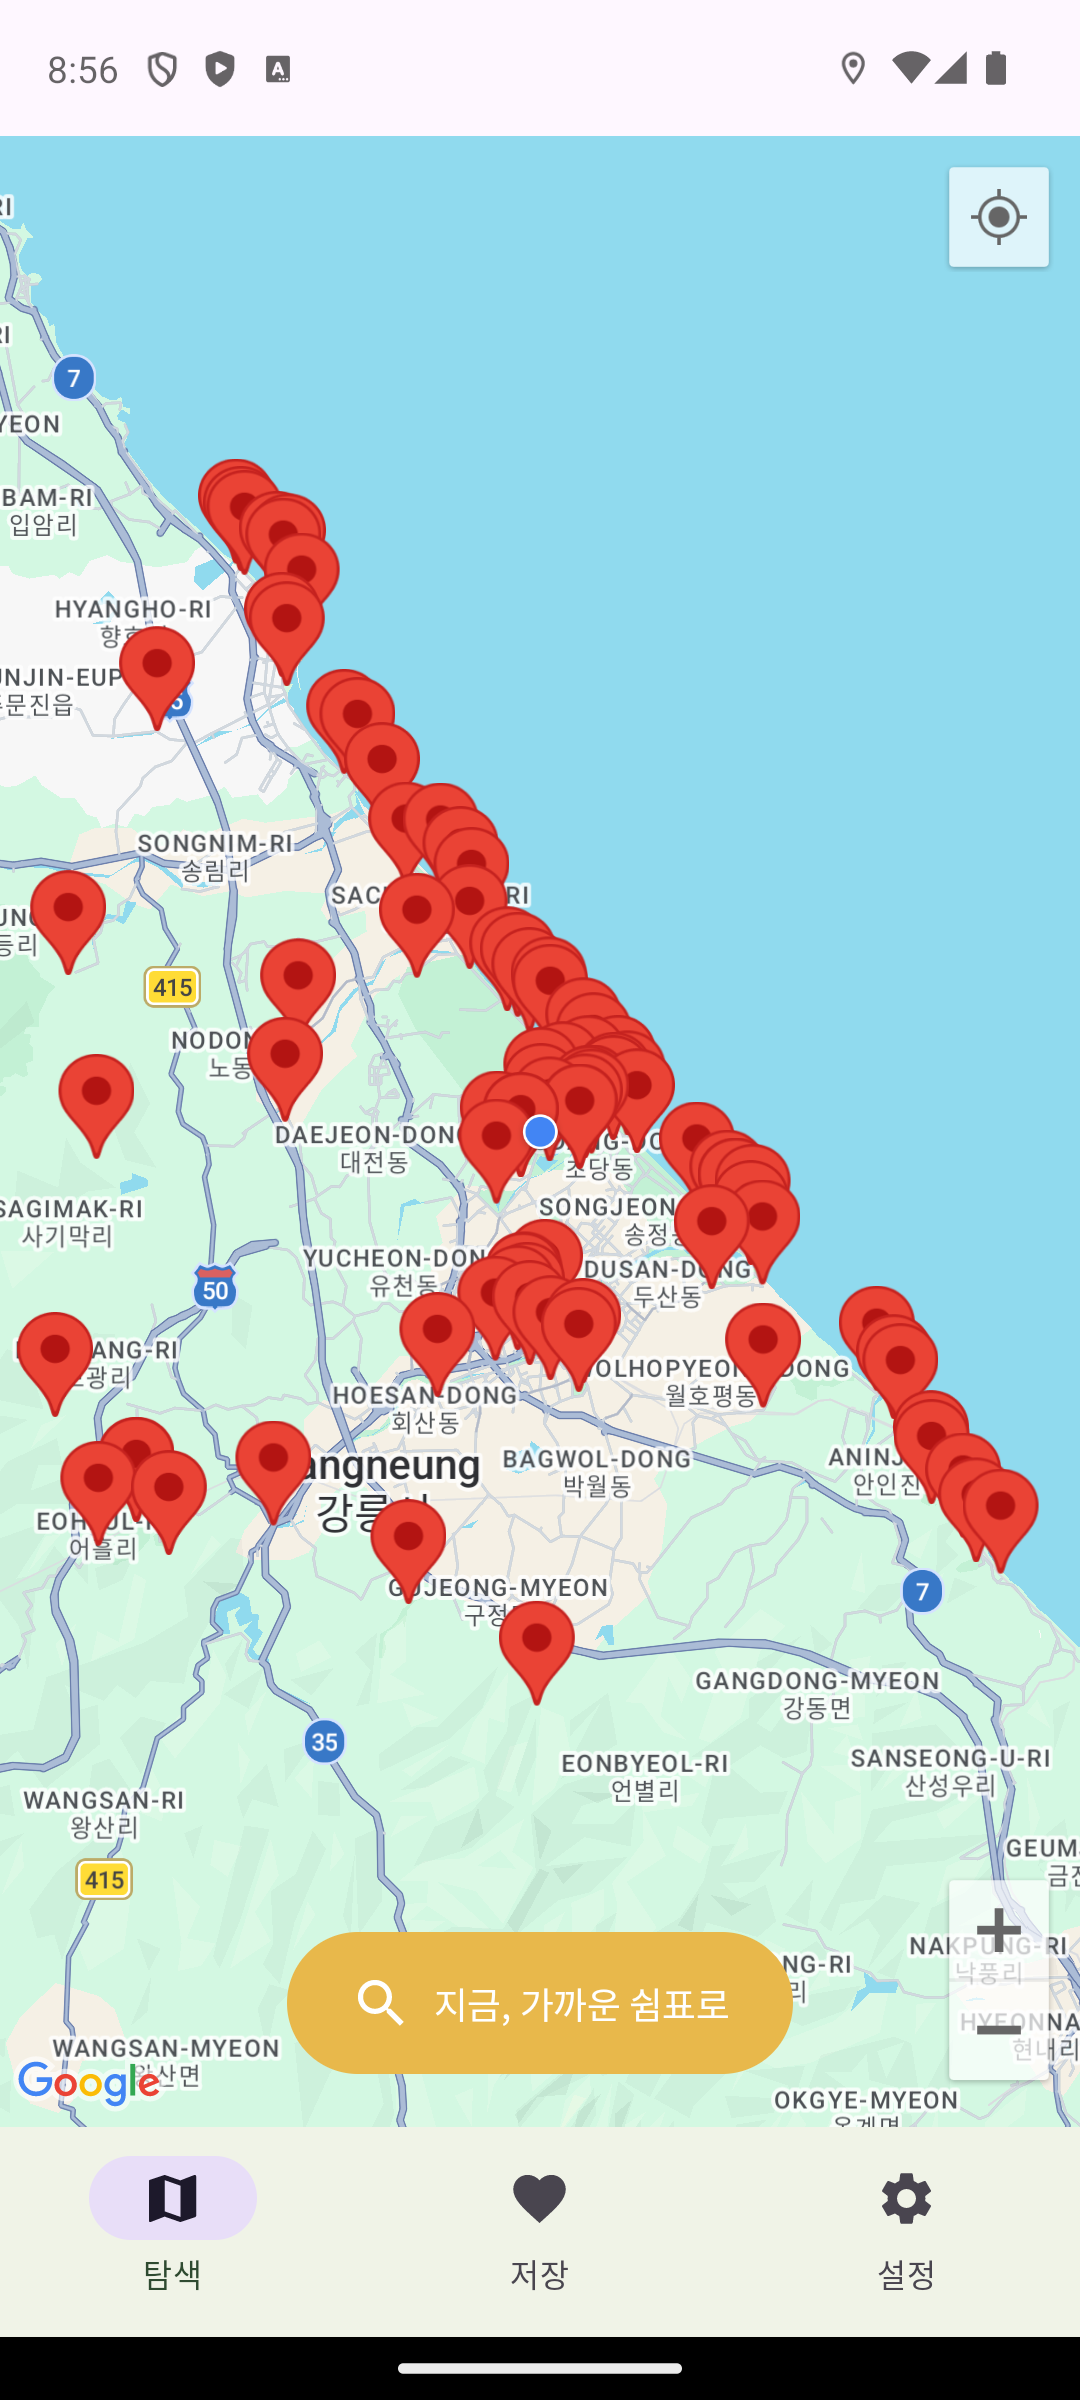
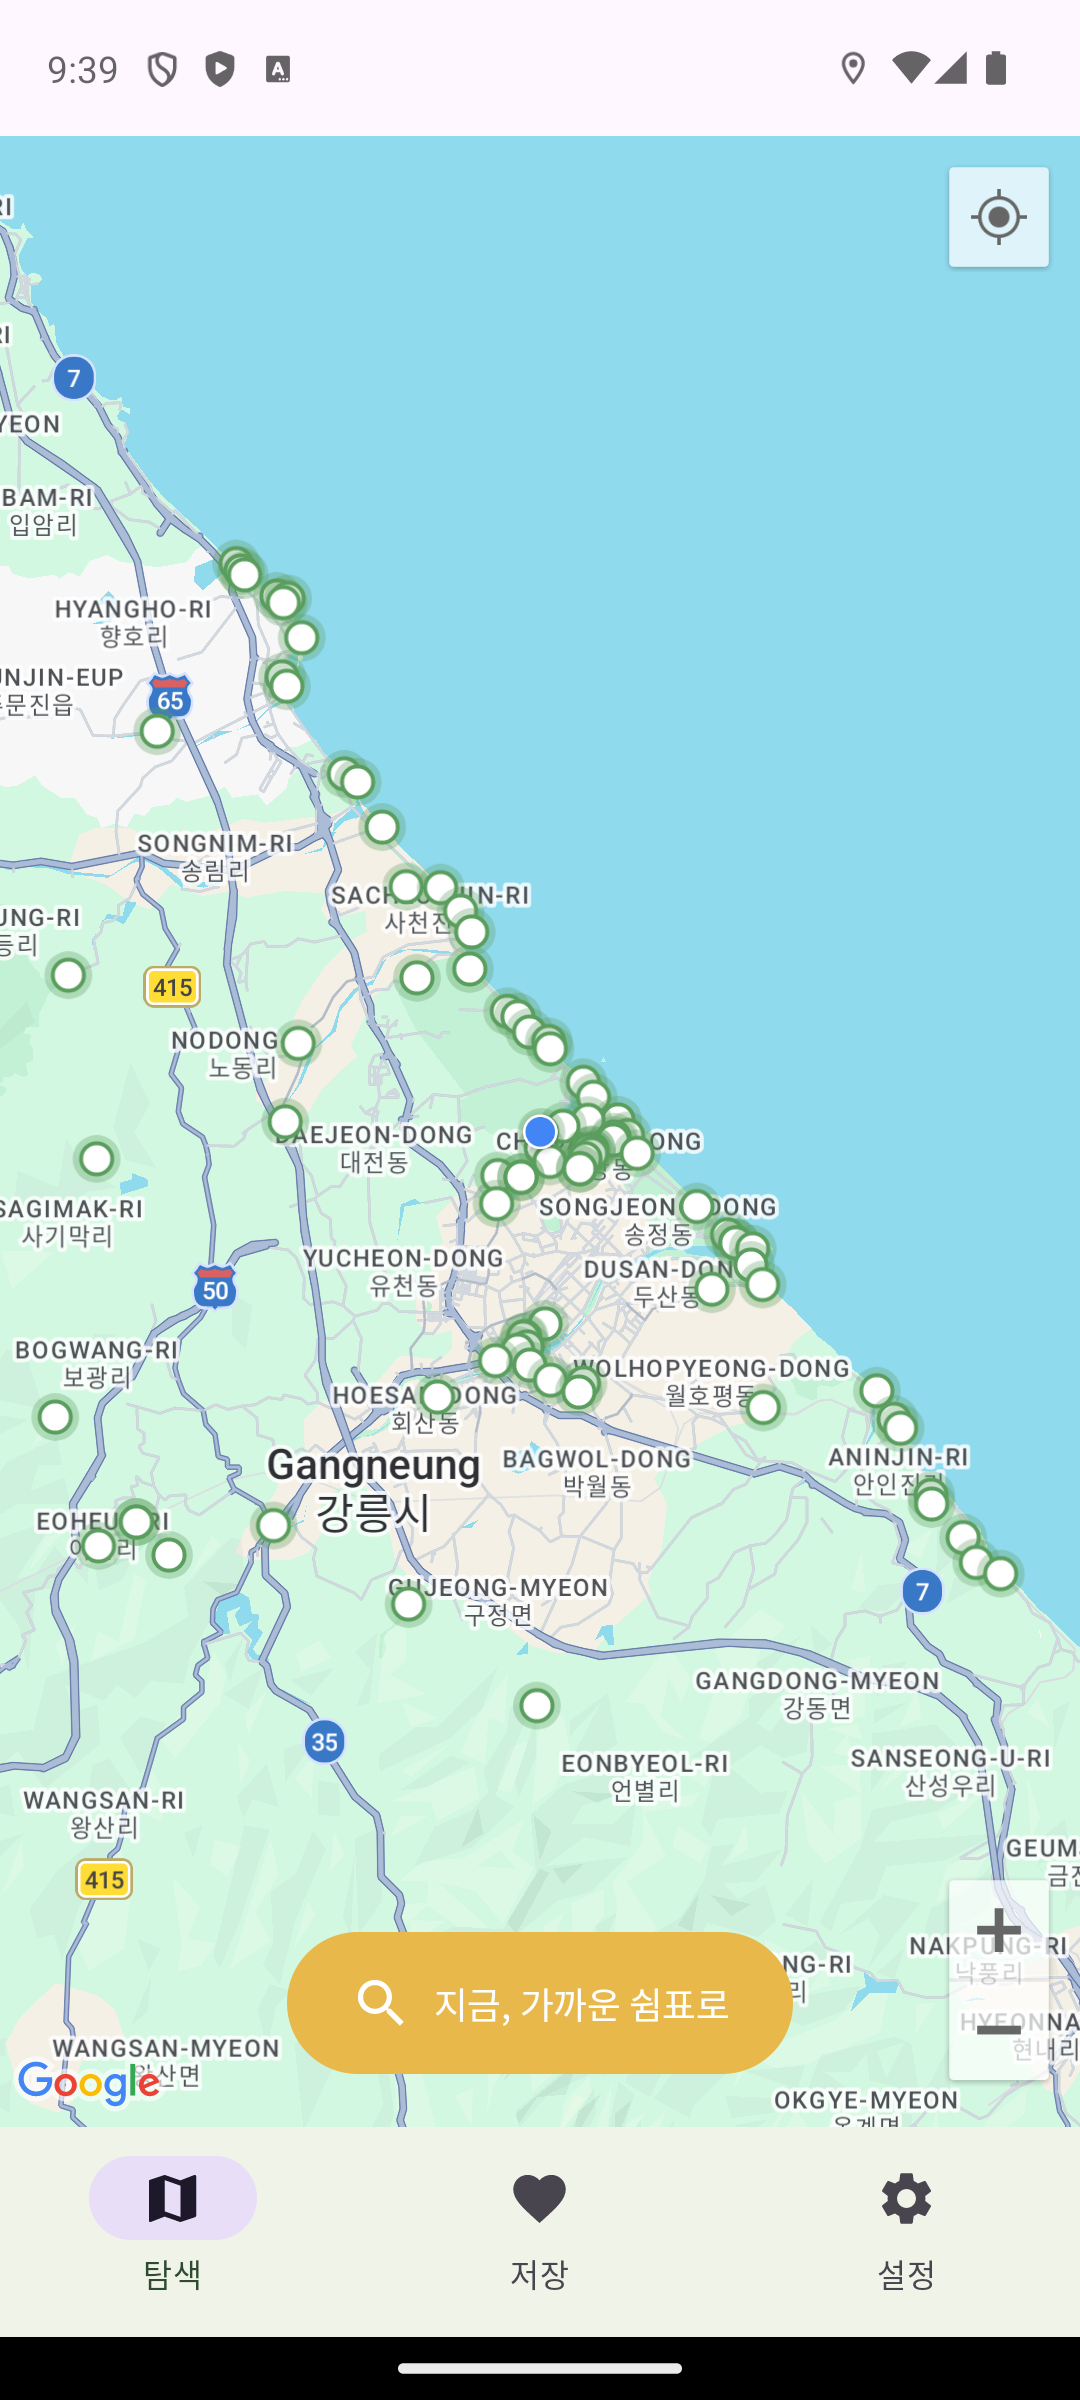
feat(android): 지도 마커 점 스타일 통일(iOS StarDot 동등)
기본 빨간 핀 → iOS StarDot과 동일한 초원 점(은은한 헤일로 + 흰 점 +
meadowDeep 링)으로 교체. Canvas로 BitmapDescriptor 생성, anchor 중앙 정렬.
BitmapDescriptorFactory는 Maps 초기화 후에만 사용 가능하므로
MapsInitializer.initialize()를 remember에서 선행 호출(초기화 전 호출 시
"IBitmapDescriptorFactory is not initialized" 크래시 방지).

diff --git a/android/app/src/main/java/app/stardust/comma/ui/ExploreScreen.kt b/android/app/src/main/java/app/stardust/comma/ui/ExploreScreen.kt
@@ -3,6 +3,9 @@ package app.stardust.comma.ui
 import android.Manifest
 import android.annotation.SuppressLint
 import android.content.pm.PackageManager
+import android.graphics.Bitmap
+import android.graphics.Canvas as AndroidCanvas
+import android.graphics.Paint
 import androidx.activity.compose.rememberLauncherForActivityResult
 import androidx.activity.result.contract.ActivityResultContracts
 import androidx.compose.foundation.layout.*
@@ -19,12 +22,16 @@ import androidx.compose.ui.text.font.FontWeight
 import androidx.compose.ui.unit.dp
 import androidx.compose.ui.window.Dialog
 import androidx.compose.ui.window.DialogProperties
+import androidx.compose.ui.geometry.Offset
 import androidx.core.content.ContextCompat
 import app.stardust.comma.data.Session
 import app.stardust.comma.data.TourSpot
 import kotlinx.coroutines.launch
 import app.stardust.comma.ui.theme.MeadowAccent
 import com.google.android.gms.location.LocationServices
+import com.google.android.gms.maps.MapsInitializer
+import com.google.android.gms.maps.model.BitmapDescriptor
+import com.google.android.gms.maps.model.BitmapDescriptorFactory
 import com.google.android.gms.maps.model.CameraPosition
 import com.google.android.gms.maps.model.LatLng
 import com.google.maps.android.compose.GoogleMap
@@ -35,6 +42,31 @@ import com.google.maps.android.compose.rememberCameraPositionState
 
 private val GANGNEUNG = LatLng(37.7519, 128.8761)
 private fun inKorea(p: LatLng) = p.latitude in 33.0..39.5 && p.longitude in 124.0..132.0
+
+/** iOS StarDot과 동일한 초원 점 마커: 은은한 헤일로 + 흰 점 + meadowDeep 링. */
+private fun meadowDotIcon(density: Float): BitmapDescriptor {
+    val deep = android.graphics.Color.parseColor("#5A9E5E")
+    val size = (20f * density).toInt().coerceAtLeast(28)   // px
+    val bmp = Bitmap.createBitmap(size, size, Bitmap.Config.ARGB_8888)
+    val canvas = AndroidCanvas(bmp)
+    val c = size / 2f
+    val paint = Paint(Paint.ANTI_ALIAS_FLAG)
+    // 1) 헤일로
+    paint.style = Paint.Style.FILL
+    paint.color = deep
+    paint.alpha = 80
+    canvas.drawCircle(c, c, size * 0.46f, paint)
+    // 2) 흰 점
+    paint.alpha = 255
+    paint.color = android.graphics.Color.WHITE
+    canvas.drawCircle(c, c, size * 0.30f, paint)
+    // 3) meadowDeep 링
+    paint.style = Paint.Style.STROKE
+    paint.strokeWidth = density * 1.5f
+    paint.color = deep
+    canvas.drawCircle(c, c, size * 0.30f, paint)
+    return BitmapDescriptorFactory.fromBitmap(bmp)
+}
 
 @SuppressLint("MissingPermission")
 @Composable
@@ -50,6 +82,12 @@ fun ExploreScreen(modifier: Modifier = Modifier) {
     val cam = rememberCameraPositionState { position = CameraPosition.fromLatLngZoom(GANGNEUNG, 11f) }
 
     val fused = remember { LocationServices.getFusedLocationProviderClient(ctx) }
+    // BitmapDescriptorFactory는 Maps 초기화 후에만 사용 가능 → 먼저 초기화.
+    val dotIcon = remember {
+        @Suppress("DEPRECATION")
+        MapsInitializer.initialize(ctx)
+        meadowDotIcon(ctx.resources.displayMetrics.density)
+    }
 
     fun applyLocation() {
         val granted = ContextCompat.checkSelfPermission(ctx, Manifest.permission.ACCESS_FINE_LOCATION) ==
@@ -103,6 +141,8 @@ fun ExploreScreen(modifier: Modifier = Modifier) {
                     state = MarkerState(LatLng(s.latitude, s.longitude)),
                     title = s.spotName,
                     snippet = s.address ?: s.region,
+                    icon = dotIcon,                  // iOS와 동일한 초원 점 스타일
+                    anchor = Offset(0.5f, 0.5f),     // 좌표 정중앙에 점이 오도록
                 )
             }
         }